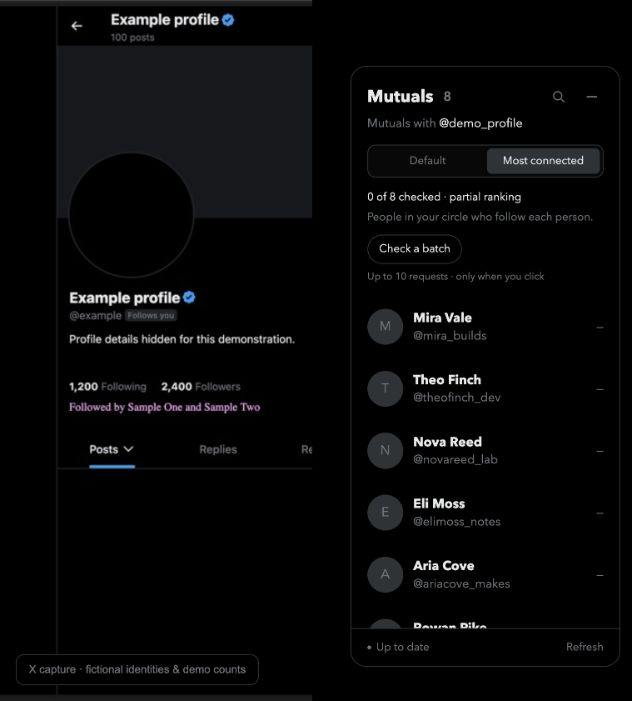
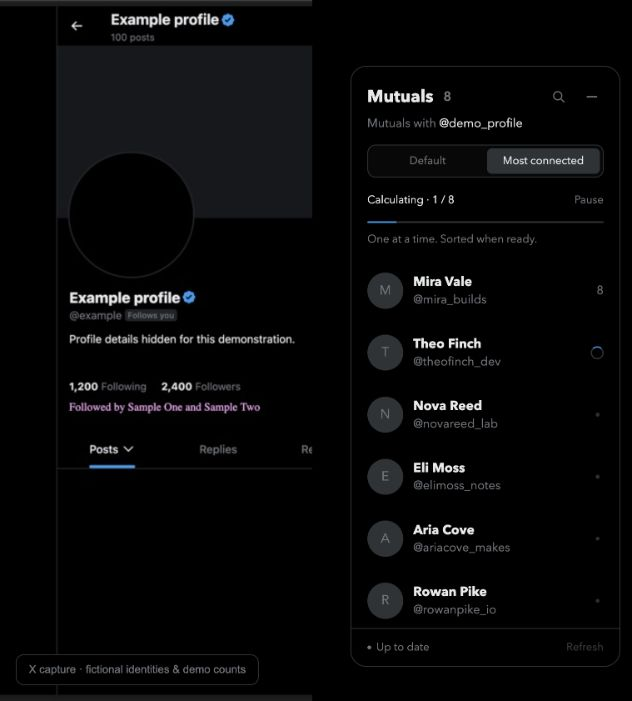
Make mutual ranking continuous with paced requests and inline progress

diff --git a/content.js b/content.js
@@ -2,9 +2,10 @@
   'use strict';
   if (window.__mutualsLoaded) return;
   Object.defineProperty(window, '__mutualsLoaded', { value: true });
-  const { countPages, findUsers } = window.__mutualsCore;
+  const { countPages, findUsers, ratePlan } = window.__mutualsCore;
   const nativeFetch = window.fetch.bind(window);
   const records = new Map(), profiles = new Map(), ranks = new Map();
+  let rankNextAt = 0;
   let rankJob = null, sortMode = false, rankVersion = 0, rankMessage = "";
   const TTL = 5 * 60 * 1000;
   const endpointPattern = /^\/i\/api\/graphql\/[^/]+\/FollowersYouKnow$/;
@@ -140,19 +141,33 @@
     const x=ranking(a),y=ranking(b);return x && y ? y.count-x.count : x ? -1 : y ? 1 : 0;
   }
   async function rankBatch() {
+    if(navigator.locks){
+      return navigator.locks.request('mutuals-ranking-'+account(),{ifAvailable:true},lock=>{
+        if(lock)return rankAll();
+        rankMessage='Another tab is calculating. Pause it to continue here.';schedule();
+      });
+    }
+    return rankAll();
+  }
+  async function rankAll() {
     const p=page();
     if(!p || active || rankJob || !auth || auth.viewer!==account() || collapsed || document.hidden)return;
     if(Date.now()<blockedUntil){rankMessage='X is limiting requests. Try again later.';schedule();return;}
     const order=new Map([...(records.get(p.handle)?.users ?? [])].sort(compareRanks).map((user,index)=>[user.id,index]));
-    const job={controller:new AbortController(),viewer:account(),handle:p.handle,requests:0,order};
+    const job={controller:new AbortController(),viewer:account(),handle:p.handle,requests:0,order,currentId:null,delayMs:1000};
     const candidates=(records.get(p.handle)?.users ?? []).filter(user=>!ranking(user));
     if(!candidates.length)return;
-    rankJob=job;rankMessage='Checking a batch…';schedule();
+    rankJob=job;rankMessage='';schedule();
     const headers=new Headers(auth.headers), template=structuredClone(endpoint);
     const fetchRank=async(user,cursor)=>{
-      if(job.requests)await new Promise(resolve=>setTimeout(resolve,750));
-      if(job.controller.signal.aborted)throw new Error('Batch paused.');
-      if(job.requests>=10)throw new Error('Batch limit reached.');
+      if(Date.now()<rankNextAt)await new Promise(resolve=>{
+        const timer=setTimeout(done,rankNextAt-Date.now());
+        function done(){clearTimeout(timer);job.controller.signal.removeEventListener('abort',done);resolve();}
+        job.controller.signal.addEventListener('abort',done,{once:true});
+      });
+      if(job.controller.signal.aborted)throw new Error('Calculation paused.');
+      if(job.requests>=300)throw new Error('Safety limit reached. Resume when ready.');
+      if(Date.now()<blockedUntil)throw new Error('Paused to preserve X’s request allowance. Try again after the cooldown.');
       const url=new URL(template.path,location.origin);
       if(!endpointPattern.test(url.pathname)||url.origin!==location.origin)throw new Error('Reconnect through X’s mutuals list.');
       url.searchParams.set('variables',JSON.stringify({userId:user.id,count:100,includePromotedContent:false,...(cursor?{cursor}:{})}));
@@ -160,23 +175,26 @@
       if(template.fieldToggles)url.searchParams.set('fieldToggles',JSON.stringify(template.fieldToggles));
       job.requests++;
       const response=await nativeFetch(url.href,{credentials:'same-origin',headers,signal:AbortSignal.any([job.controller.signal,AbortSignal.timeout(15000)])});
+      const pace=ratePlan(response.headers.get('x-rate-limit-remaining'),response.headers.get('x-rate-limit-reset'));
+      job.delayMs=pace.delayMs;rankNextAt=Date.now()+pace.delayMs;blockedUntil=Math.max(blockedUntil,pace.blockedUntil);
       if(response.status===429)blockedUntil=Math.max(Date.now()+60000,Number(response.headers.get('x-rate-limit-reset'))*1000||0);
       if(!response.ok)throw new Error(statusMessage(response.status));
       return response.json();
     };
     try {
       for(const user of candidates){
-        if(job.controller.signal.aborted || job.requests>=10)break;
-        const maxPages=Math.min(2,10-job.requests);
+        if(job.controller.signal.aborted || job.requests>=300){if(job.requests>=300)rankMessage='Safety limit reached. Resume when ready.';break;}
+        job.currentId=user.id;rankVersion++;schedule();
+        const maxPages=Math.min(2,300-job.requests);
         const result=await countPages({first:await fetchRank(user),maxPages,signal:job.controller.signal,fetchPage:cursor=>fetchRank(user,cursor)});
-        if(job.viewer!==account())break;
+        if(job.viewer!==account() || job.controller.signal.aborted)break;
         ranks.set(user.id,{count:result.count,complete:result.complete,time:Date.now(),reason:result.reason});
         while(ranks.size>1000)ranks.delete(ranks.keys().next().value);
-        rankVersion++;rankMessage=`${job.requests} of 10 requests used`;schedule();
+        rankVersion++;schedule();
         if(!result.complete && !/page limit/.test(result.reason)){rankMessage=result.reason;break;}
       }
-    }catch(error){rankMessage=job.controller.signal.aborted?'Batch paused.':error.message;}
-    finally{if(rankJob===job)rankJob=null;rankVersion++;schedule();}
+    }catch(error){rankMessage=job.controller.signal.aborted?'Calculation paused.':error.message;}
+    finally{if(job.controller.signal.aborted)rankMessage='Calculation paused.';if(rankJob===job)rankJob=null;rankVersion++;schedule();}
   }
 
   const css = `
@@ -196,6 +214,7 @@
     button:focus-visible,a:focus-visible{outline:2px solid #1d9bf0;outline-offset:-3px}.skeleton{height:62px;padding:13px 16px;display:flex;gap:10px}.skeleton .avatar{opacity:.65}.bones{flex:1;padding-top:5px}.bone{height:7px;background:var(--line);border-radius:5px;width:74%;margin-bottom:9px}.bone+.bone{width:48%;opacity:.6}
     .search-button{display:grid;place-items:center;margin-left:auto}.search-button+.icon{margin-left:0}.search-box{margin-top:13px}.search-input{display:block;width:100%;border:1px solid var(--line);border-radius:8px;padding:8px 10px;background:var(--paper);color:var(--text);font:12px/1.4 inherit;font-family:inherit;font-size:12px;outline:none}.search-input:focus{border-color:#1d9bf0}.search-input::placeholder{color:var(--muted)}.search-summary{padding:3px 16px 8px;color:var(--muted);font-size:11px}.people{scrollbar-gutter:stable;max-height:min(560px,calc(100dvh - 285px))}
     .ranking-controls{margin-top:13px}.sort-tabs{display:flex;gap:3px;background:var(--hover);border:1px solid var(--line);border-radius:8px;padding:3px}.sort-option{flex:1;border:0;border-radius:5px;padding:5px 3px;background:none;color:var(--muted);font-size:11px}.sort-option[aria-pressed=true]{background:var(--line);color:var(--text)}.rank-info{font-size:11px;color:var(--text);margin-top:12px}.rank-detail{font-size:11px;line-height:1.5;color:var(--muted);margin-top:4px}.rank-action{font-size:11px;border:1px solid var(--line);background:none;color:var(--text);border-radius:99px;padding:6px 11px;margin-top:9px}.rank-action:disabled{opacity:.5;cursor:default}.budget{display:block;color:var(--muted);font-size:10px;margin-top:6px}.connection-score{margin-left:auto;flex:none;color:var(--muted);font-size:12px;font-variant-numeric:tabular-nums}.identity{flex:1}.panel{display:flex;flex-direction:column;max-height:calc(100dvh - 100px)}.heading,.footer{flex-shrink:0}.people{min-height:0;flex:0 1 auto}
+    .rank-progress{display:flex;align-items:center;justify-content:space-between;margin-top:12px;gap:8px}.rank-info{margin:0;font-variant-numeric:tabular-nums}.rank-action{margin:0;padding:3px 0;border:0;color:var(--muted);font-size:11px}.rank-action:hover{color:var(--text)}.rank-track{height:2px;background:var(--line);margin:10px 0 8px;border-radius:2px;overflow:hidden}.rank-fill{height:100%;background:#1d9bf0;transition:width .3s ease}.row-spinner{width:13px;height:13px;border:1.5px solid var(--line);border-top-color:#1d9bf0;border-radius:50%;animation:spin .8s linear infinite}.row-queued{width:4px;height:4px;border-radius:50%;background:var(--muted);opacity:.4;margin-right:4px}@keyframes spin{to{transform:rotate(360deg)}}
     @media(max-width:1100px){:host{right:12px;width:270px;top:66px}.panel{box-shadow:0 8px 36px #0003}}@media(max-width:600px){:host{top:auto;bottom:18px;right:12px;width:min(292px,calc(100vw - 24px))}.people{max-height:45dvh}}
     @media(prefers-reduced-motion:reduce){*{animation:none!important}}
   `;
@@ -217,7 +236,7 @@
     syncAccount();
     const next = p ? `${p.handle}:${p.list}` : '';
     const routeChanged = route !== next;
-    if (routeChanged) { active?.controller.abort();rankJob?.controller.abort(); clearTimeout(timer); timer = null; route = next; signature = ''; visibleRows = 100; query = ''; rankMessage=''; }
+    if (routeChanged) { active?.controller.abort();rankJob?.controller.abort(); clearTimeout(timer); timer = null; route = next; signature = ''; visibleRows = 100; query = ''; rankMessage='';sortMode=false; }
     if (!p || !who || p.handle === who || !document.querySelector('[data-testid="primaryColumn"]')) { host?.remove(); host = root = null; signature = ''; return; }
     let record = records.get(p.handle);
     if (routeChanged && record && Date.now() - record.time > TTL && active?.handle !== p.handle) { records.delete(p.handle); record = null; }
@@ -261,18 +280,21 @@
     if(record?.users?.length){
       const controls=el('div','ranking-controls'), tabs=el('div','sort-tabs');tabs.setAttribute('role','group');tabs.setAttribute('aria-label','Order mutuals');
       for(const [label,value] of [['Default',false],['Most connected',true]]){
-        const button=el('button','sort-option',label);button.type='button';button.setAttribute('aria-pressed',String(sortMode===value));
-        button.onclick=()=>{sortMode=value;visibleRows=100;if(!value)rankJob?.controller.abort();signature='';schedule();};tabs.append(button);
+        const button=el('button','sort-option',label);button.type='button';button.setAttribute('aria-pressed',String(sortMode===value));button.disabled=Boolean(active);
+        button.onclick=()=>{sortMode=value;visibleRows=100;if(!value)rankJob?.controller.abort();signature='';schedule();if(value)rankBatch();};tabs.append(button);
       }
       controls.append(tabs);
       if(sortMode){
         const checked=record.users.filter(user=>ranking(user)).length;
-        const info=el('div','rank-info',`${checked} of ${record.users.length} checked${checked<record.users.length || record.users.some(user=>!ranking(user)?.complete)?' · partial ranking':''}`);info.setAttribute('role','status');
-        const detail=el('div','rank-detail',rankJob?'Order updates when the batch ends.':rankMessage || 'People in your circle who follow each person.');
-        const button=el('button','rank-action',rankJob?'Stop':checked<record.users.length?'Check a batch':'Checked available mutuals');button.type='button';button.disabled=!rankJob&&(Boolean(active)||checked===record.users.length);
-        button.onclick=()=>{if(rankJob)rankJob.controller.abort();else rankBatch();};
-        controls.append(info,detail,button);
-        if(checked<record.users.length)controls.append(el('span','budget','Up to 10 requests · only when you click'));
+        const progress=el('div','rank-progress');
+        const info=el('div','rank-info',rankJob?`Calculating · ${checked} / ${record.users.length}`:checked===record.users.length?'Ranking ready':`${checked} of ${record.users.length} calculated`);info.setAttribute('role','status');
+        const button=el('button','rank-action',rankJob?'Pause':checked<record.users.length?'Resume':'↻');button.type='button';button.setAttribute('aria-label',rankJob?'Pause ranking':checked<record.users.length?'Resume ranking':'Recalculate ranking');button.disabled=Boolean(active);
+        button.onclick=()=>{if(rankJob)rankJob.controller.abort();else {if(checked===record.users.length){for(const user of record.users)ranks.delete(user.id);}rankBatch();}};
+        progress.append(info,button);controls.append(progress);
+        const track=el('div','rank-track'),fill=el('div','rank-fill');fill.style.width=`${checked/record.users.length*100}%`;track.append(fill);controls.append(track);
+        const partial=record.users.some(user=>ranking(user)&&!ranking(user).complete);
+        controls.append(el('div','rank-detail',rankMessage || (rankJob?'One at a time. Sorted when ready.':partial?'Sorted by known counts · + means at least':'People in your circle who follow each person.')));
+
       }
       heading.append(controls);
     }
@@ -287,7 +309,7 @@
       const identity = el('div','identity'), name = el('div','name',user.name);
       if(user.verified){ const badge=el('span','tick','✓');badge.setAttribute('aria-label','Verified');name.append(badge); }
       identity.append(name,el('div','handle',user.handle?`@${user.handle}`:'Unavailable account')); row.append(avatar,identity);
-      if(sortMode){const result=ranking(user),score=el('span','connection-score',result?`${result.count.toLocaleString()}${result.complete?'':'+'}`:'—');score.title=result?`${result.count}${result.complete?'':' or more'} people you follow also follow this person${result.reason?'. '+result.reason:''}`:'Not checked';score.setAttribute('aria-label',result?`${result.count}${result.complete?'':' or more'} mutual connections`:'Not checked');row.append(score);}
+      if(sortMode){const result=ranking(user),score=el('span','connection-score',result?`${result.count.toLocaleString()}${result.complete?'':'+'}`:'—');score.title=result?`${result.count}${result.complete?'':' or more'} people you follow also follow this person${result.reason?'. '+result.reason:''}`:'Not checked';score.setAttribute('aria-label',result?`${result.count}${result.complete?'':' or more'} mutual connections`:'Not checked');if(!result){score.textContent='';score.classList.add(rankJob?.currentId===user.id?'row-spinner':'row-queued');score.setAttribute('aria-label',rankJob?.currentId===user.id?'Calculating mutual connections':'Waiting to calculate');}row.append(score);}
       people.append(row);
     }
     if (users.length > visibleRows) { const more=el('button','more','Show more');more.type='button';more.onclick=()=>{visibleRows+=100;signature='';schedule();};people.append(more); }

diff --git a/core.js b/core.js
@@ -86,7 +86,14 @@
       total + Math.min(score(normalize(user.name), term), score(normalize(user.handle), term.replace(/^@/, ''))), 0) }))
       .filter(item => Number.isFinite(item.score)).sort((a,b) => a.score-b.score || a.index-b.index).map(item => item.user);
   }
-  const api = { parsePage, countPages, findUsers };
+  function ratePlan(remaining, reset, now = Date.now()) {
+    if(remaining == null || reset == null || remaining === '' || reset === '')return {delayMs:1000,blockedUntil:0};
+    const left=Number(remaining),until=Number(reset)*1000;
+    if(!Number.isFinite(left)||!Number.isFinite(until)||until<=now)return {delayMs:1000,blockedUntil:0};
+    if(left<=5)return {delayMs:1000,blockedUntil:until+1000};
+    return {delayMs:Math.max(750,Math.ceil((until-now)/(left-5)*1.1)),blockedUntil:0};
+  }
+  const api = { parsePage, countPages, findUsers, ratePlan };
   if (typeof module !== 'undefined' && module.exports) module.exports = api;
   else Object.defineProperty(root, '__mutualsCore', { value: api, configurable: true });
 })(globalThis);

diff --git a/popup.html b/popup.html
@@ -1,6 +1,6 @@
 <!doctype html>
 <html lang="en"><meta charset="utf-8"><meta name="viewport" content="width=device-width, initial-scale=1"><title>Mutuals</title><link rel="stylesheet" href="popup.css">
-<body><main><div class="brand"><span class="mark" aria-hidden="true">◯◯</span> mutuals<span class="version">02</span></div>
+<body><main><div class="brand"><span class="mark" aria-hidden="true">◯◯</span> mutuals<span class="version">03</span></div>
 <h1>A little more<br>context.</h1><p>Know who connects you.</p>
 <div class="instruction"><span>↗</span><p>Open a profile on X.<br>Your mutuals appear<br>in a quiet sidebar.</p></div>
 <footer>Your session. Your browser.<br>No account, API key, or tracking.</footer></main></body></html>

diff --git a/INSTALL.md b/INSTALL.md
@@ -28,11 +28,12 @@ Requires Firefox engine 140+. Temporary add-ons disappear when the browser resta
 - **Search:** click the magnifying glass or press **⌘F / Ctrl+F**. Type a name, handle, or partial spelling. Search includes loaded people beyond the visible rows and sends no requests. Escape closes search. On profile pages the shortcut replaces browser Find; browser Find remains available from the browser menu.
 - **Collapse:** click **−**. Click the small Mutuals pill to reopen.
 - **Refresh / Stop:** refresh the profile’s mutuals, or stop an ongoing check.
-- **Most connected:** select this to show each person’s own mutual count. The switch itself sends no requests. Select **Check a batch** to check more people; each click permits at most 10 requests, with at most two pages per person. Cached results are reused. Stop, collapse, leave the profile, or hide the tab to cancel.
+- **Most connected:** select once to start a continuous calculation. A spinner marks the active person, dots mark the queue, and counts appear as results arrive. **Pause** stops requests; **Resume** skips completed cached people. Switching to Default, collapsing, leaving the profile, or hiding the tab also stops calculation. No repeated batch clicks.
+
 
 The number next to each person means **how many accounts you follow also follow that person**. It is not their follower count or their connections to everyone in the sidebar.
 
-Checked people sort from highest known count to lowest; unchecked people show `—` and stay below them. Ordering updates at the end of a batch so rows do not jump while the batch runs. `20+` means at least 20, not an exact total. A partial ranking is not a definitive top list. Bounded checks that remain incomplete are not automatically expanded by later batches; opening that person’s profile can produce a fuller cached count. Result caches last five minutes and are cleared on reload or account change.
+Checked people sort from highest known count to lowest; unchecked people show `—` and stay below them. Ordering updates when calculation finishes or pauses so rows do not jump during calculation. `20+` means at least 20, not an exact total. A partial ranking is not a definitive top list. Each person is checked for up to two pages. Incomplete results are not automatically expanded; opening that person’s profile can produce a fuller cached count. Result caches last five minutes and are cleared on reload or account change.
 
 ## Update or remove
 
@@ -46,6 +47,6 @@ After downloading an update, extract it over the folder you loaded. On the exten
 
 **Partial count or `+`:** X may have limited requests, returned unavailable accounts, or reached this extension’s page budget. Available results remain visible. Rate limits enforce a cooldown; repeatedly clicking does not bypass it.
 
-**Ranking stalled:** wait for the cooldown or use Stop. The extension never starts another ranking batch by itself. Open one X tab at a time to keep overall traffic low; tabs do not share their request budgets.
+**Ranking paused:** wait for the cooldown, then select Resume. Requests adapt to X’s reported allowance and stop with five requests in reserve. Without rate headers, the queue waits one second after each response. Errors do not trigger automatic retries. A run stops after 300 requests as a safety limit. Same-origin tabs coordinate ranking through Web Locks where supported; other X traffic and other devices still consume allowance.
 
 **Theme or layout conflict:** other X styling extensions can affect the available space. Mutuals uses the page background and an isolated sidebar, but unusually narrow layouts may cover part of X. Collapse the panel when needed.

diff --git a/README.md b/README.md
@@ -6,7 +6,7 @@ Vanilla JavaScript. No dependencies, backend, API key, analytics, or sign-up.
 
 ![Mutuals walkthrough: open the minimized pill, view eight people, select Most connected, and calculate their counts](docs/walkthrough.gif)
 
-Minimized pill → mutual list → **Most connected** → **Check a batch**.
+Minimized pill → mutual list → **Most connected** → automatic calculation.
 
 *Recorded with the production extension UI over an anonymized screenshot of X. All displayed identities and ranking counts are fictional demo data. No developer tools or logs are shown.*
 
@@ -53,7 +53,11 @@ If X changes its endpoint or rejects authorization, select **Open X’s mutuals 
 
 ## Most connected
 
-Switch from **Default** to **Most connected** to see each person’s own count within your circle. Select **Check a batch** to enrich the list on demand: at most 10 requests per click, two pages per person, sequentially. The switch and local sorting send no requests. Cached counts are reused. Unchecked people show `—`; incomplete counts show `+`, and partial rankings are explicitly labeled. Order updates after each batch. See [the guide](INSTALL.md#use-the-sidebar) for details.
+Select **Most connected** once to calculate the list automatically. Counts arrive one person at a time: the active row has a spinner, queued rows show quiet dots, and a thin progress line tracks completion. Use **Pause / Resume** at any time. The list stays steady while calculating, then sorts by known counts when finished or paused.
+
+Requests are sequential. When X supplies rate-limit headers, pacing adapts to the remaining allowance and reset time, reserving five requests. Without headers, requests wait one second after each response. The calculation stops on rate limits or other errors; it never retries automatically. Completed counts are cached, so resuming skips them. Tabs use a same-origin Web Lock to prevent simultaneous ranking runs for the same signed-in account when supported.
+
+Each person is limited to two pages, and a continuous run has a 300-request safety ceiling. Lower bounds show `+`; partial results are explicitly indicated. These safeguards reduce traffic but cannot guarantee avoidance of X’s limits, which may also be consumed by X itself or other tabs/devices.
 
 ## Request budget
 
@@ -67,7 +71,7 @@ Switch from **Default** to **Most connected** to see each person’s own count w
 - No timed refresh, automatic retries, background worker, network polling, or full follower graph crawl.
 - Rate limits stop the check and enforce at least 60 seconds of cooldown, or X’s later reset time.
 
-Caches and request coordination are per tab. Multiple open X tabs are independent. Avatars use normal lazy image loading from X’s image host; request diagnostics count connection API requests, not image loads.
+Caches are per tab. Ranking runs coordinate through a same-origin Web Lock where supported; ordinary profile loading and X’s own requests are outside that lock. Avatars use normal lazy image loading from X’s image host; request diagnostics count connection API requests, not image loads.
 
 ## Privacy and implementation
 

diff --git a/TESTING.md b/TESTING.md
@@ -47,3 +47,13 @@ Computer Use tested the opt-in ranking against synthetic accounts in the Chromiu
 - Light and dark layouts were visually inspected, including the screen-bounded list.
 
 Ranking-specific lookups have not yet been manually verified on live X. They use the same endpoint and authorization mechanism as the previously verified profile check. The implementation does not assume X provides a free embedded count. Batches use at most two pages per person, so `+` counts and partial rankings are expected for large lists.
+
+## Continuous ranking — 0.3.0
+
+- Selecting Most connected starts a sequential queue without batch buttons. Computer Use observed it continue past 30 people without another click.
+- Computer Use verified the active-row spinner, quiet queue dots, progress line, Pause, and Resume. Completed results remained cached across pause/resume.
+- A synthetic low-allowance response (five requests remaining) stopped further requests: two initial profile-list requests plus one ranking request, with a visible allowance-preservation message.
+- Rate-pacing unit tests cover missing/invalid headers, the five-request reserve, reset timing, and the minimum interval.
+- The same-origin Web Lock serializes ranking runs for the same account when supported. Other X traffic is outside this lock.
+
+Continuous ranking pacing remains to be verified against live X rate-limit headers. No guarantee is made that X will never rate-limit the extension.

diff --git a/docs/README.md b/docs/README.md
@@ -4,4 +4,4 @@
 
 To replay the interactive fixture, run `node tests/server.cjs` and open `http://127.0.0.1:8766/demo_profile?scenario=demo`. The first page contains eight fictional people; ranking requests return deterministic fictional counts. The fixture is excluded from extension builds.
 
-The GIF holds the minimized pill for 2 seconds, the open list for 3 seconds, the ranking action for 3 seconds, and the final ranking for 5 seconds. No developer tools, terminal, or request log appears in the recording.
+The GIF holds the minimized pill for 2 seconds, the open list for 3 seconds, automatic calculation for 3 seconds, and the final ranking for 5 seconds. No developer tools, terminal, or request log appears in the recording.
